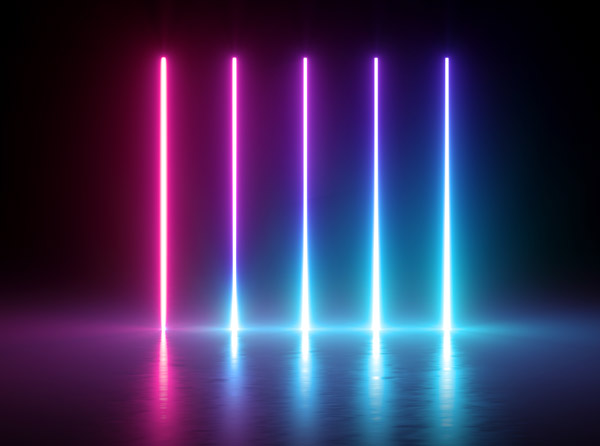
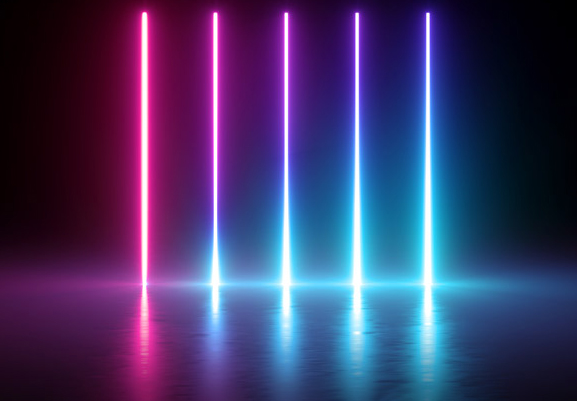
background

diff --git a/css/background.css b/css/background.css
@@ -7,7 +7,7 @@ body{margin:0;padding:0;
   }
 
 #space {
-  background-color: blueviolet;
+  /* background-color: blueviolet; */
   position: absolute;
   width: 100%;
   height: 100%;
@@ -31,7 +31,7 @@ body{margin:0;padding:0;
   grid-area: auto;
   width: 100%;
   height: 100%;
-  background-image: linear-gradient(45deg, blue, transparent, yellow), linear-gradient(to right, #008aff, transparent, #e10019), linear-gradient(to bottom, green, cyan, purple);
+  /* background-image: linear-gradient(45deg, blue, transparent, yellow), linear-gradient(to right, #008aff, transparent, #e10019), linear-gradient(to bottom, green, cyan, purple); */
   /*-webkit-background-image: url(bg.jpg);*/
   mix-blend-mode: overlay;
 }

diff --git a/index.html b/index.html
@@ -268,7 +268,8 @@
 			}
 			
 			body {
-				background-image: url(bg.jpg);
+				background: url(bg.jpg) center center no-repeat;
+				background-size: 100%;
 			    /*background: #0c0c0f;*/
 			    /*-webkit-background: radial-gradient(ellipse at bottom, #1b2735 0%, #090a0f 100%);*/
 			}
